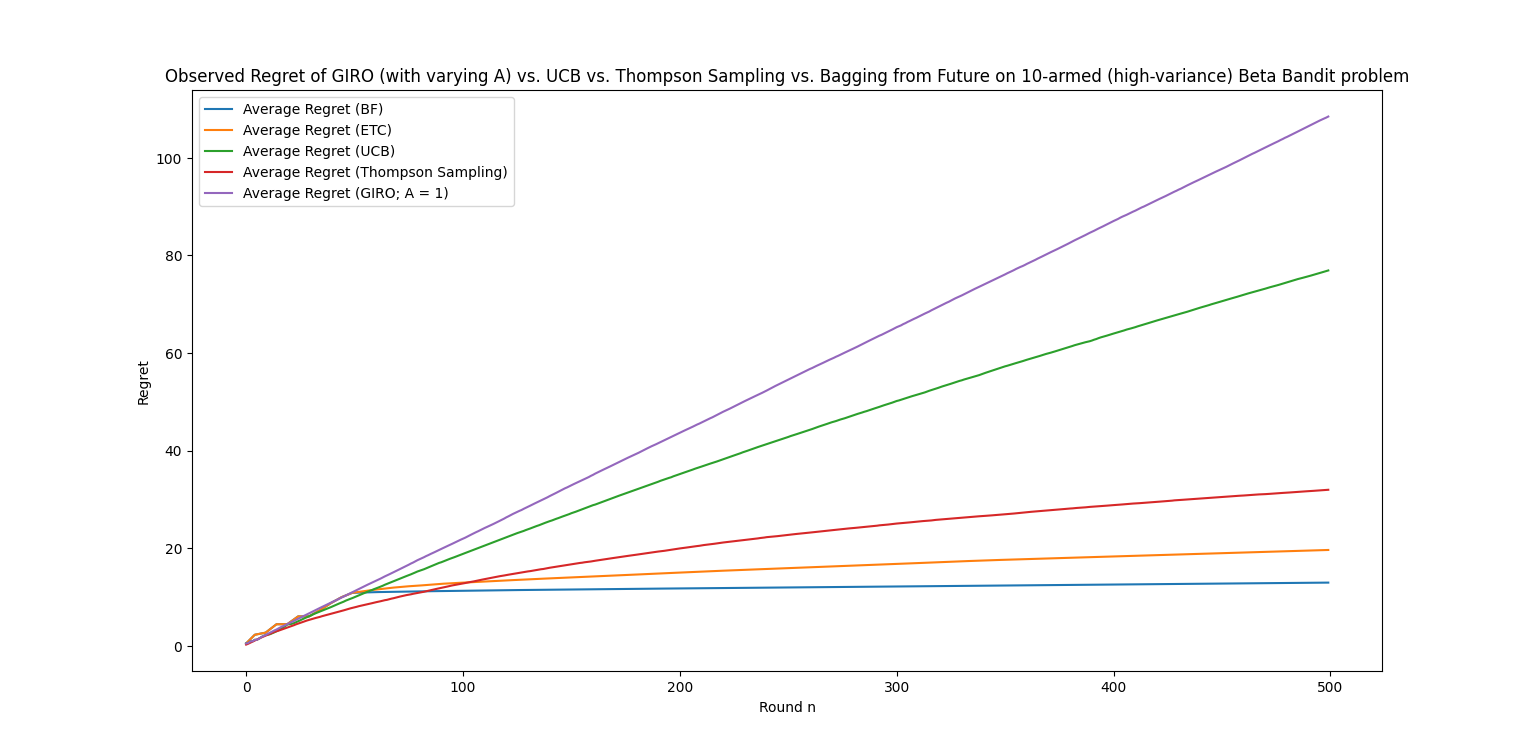
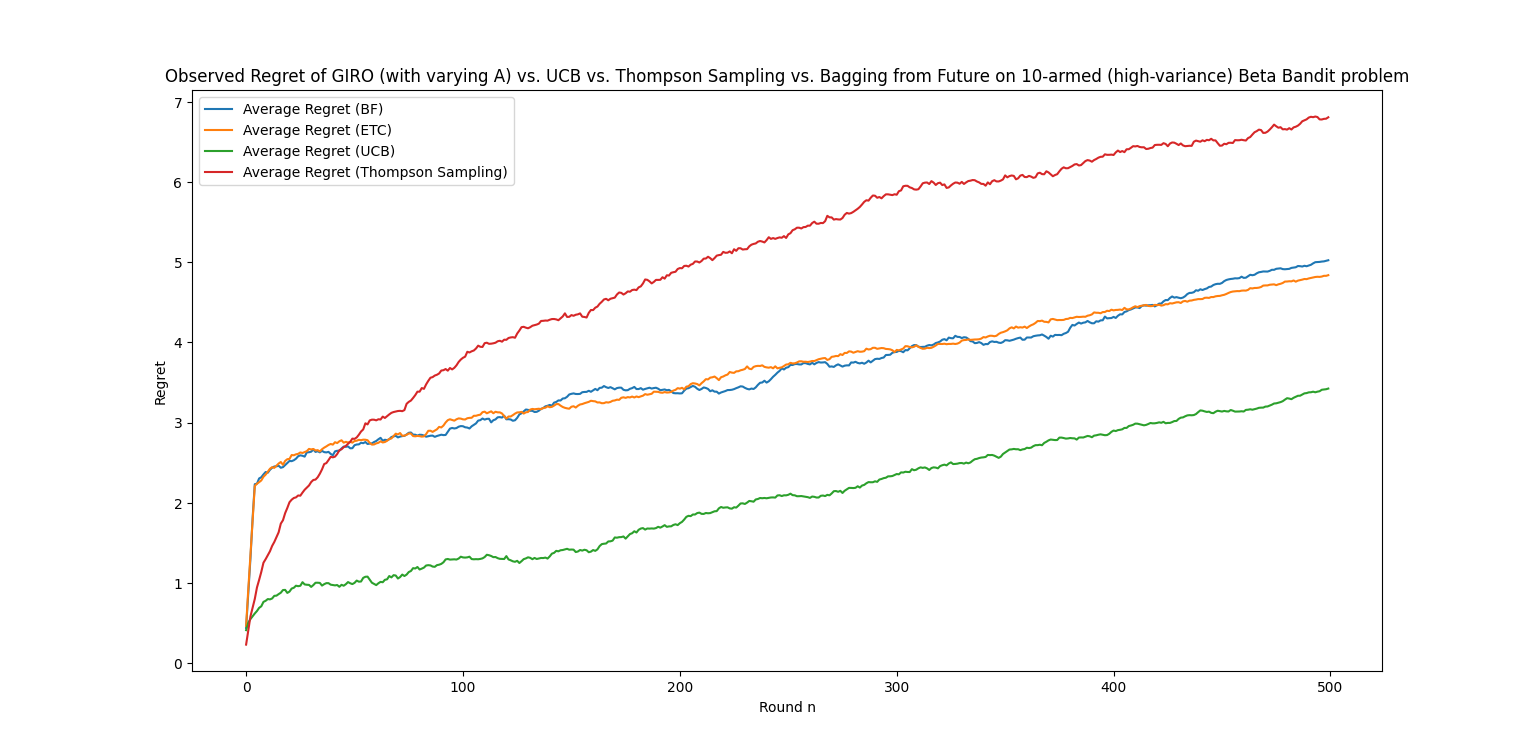
Refactored so that we are simulating a full_information game instead

diff --git a/giro_non_contextual.py b/giro_non_contextual.py
@@ -71,9 +71,9 @@ def TS_arm_estimates_function(history, t, N):
 
     return arm_estimates_current_round
 
-def bagging_from_future_factory(initial_exploration):
+def bagging_from_past_into_future_factory(initial_exploration):
 
-    def bagging_from_future_arm_estimates(history, t, N):
+    def bagging_from_past_into_future(history, t, N):
         num_arms = len(history)
         arm_estimates_current_round = np.zeros(shape=K)
 
@@ -94,7 +94,7 @@ def bagging_from_future_factory(initial_exploration):
 
         return arm_estimates_current_round
     
-    return bagging_from_future_arm_estimates
+    return bagging_from_past_into_future
 
 def explore_then_commit_factory(initial_exploration):
 
@@ -114,24 +114,38 @@ def explore_then_commit_factory(initial_exploration):
     return explore_then_commit
 
 
-def bernoulli_bandit(mu_i):
-    return random.binomial(n=1, p = mu_i)
+def bernoulli_bandit(mu):
+    k = len(mu)
+    rewards = np.zeros(shape = k)
+
+    for i in range(k):
+        rewards[i] = random.binomial(n = 1, p = mu[i])
+
+    return rewards
 
 def beta_bandit_factory(nu, ts=False):
     
-    def beta_bandit(mu_i):
-        r_t = random.beta(nu * mu_i, nu * (1 - mu_i))
-        if (ts == True):
-            return random.binomial(n=1, p = r_t)
+    def beta_bandit(mu):
+        k = len(mu)
+        rewards = np.zeros(shape = k)
+
+        for i in range(k):
+            rewards[i] = random.beta(nu * mu[i], nu * (1 - mu[i]))
+
+        if (ts == False):
+            return rewards
         else:
-            return r_t
+            zero_one_rewards = np.zeros(shape = k)
+            for i in range(K):
+                zero_one_rewards[i] = random.binomial(n = 1, p = rewards[i])
+            return [rewards, zero_one_rewards]
     
     return beta_bandit
 
-# K-armed Bernoulli Bandit 
-# problem tackled using 
-# various algorithms
-def simulate_stochastic_bandit_problem(K, T, generate_reward, compute_arm_estimates, M=100):
+# simulate K-armed stochastic 
+# full information problem 
+# and return accumulated regret
+def simulate_full_information_problem(K, T, generate_rewards, compute_arm_estimates, M=100, ts = False):
 
     # data_structure to keep track of the
     # accumulated regret up to the current round
@@ -145,9 +159,18 @@ def simulate_stochastic_bandit_problem(K, T, generate_reward, compute_arm_estima
         for i in range(K):
             history.append([])
 
-        for i in range(T):
+        ts_history = []
+        for i in range(K):
+            ts_history.append([])
+
+        current_reward = np.zeros(shape = T)
+
+        for t in range(T):
             # estimate arm values 
-            arm_estimates_current_round = compute_arm_estimates(history, i, T)
+            if (ts == True):
+                arm_estimates_current_round = compute_arm_estimates(ts_history, t, T)
+            else:
+                arm_estimates_current_round = compute_arm_estimates(history, t, T)
 
             # get maximum estimate 
             # of the pulled arm
@@ -155,22 +178,28 @@ def simulate_stochastic_bandit_problem(K, T, generate_reward, compute_arm_estima
     
             # reward is generated 
             # by nature
-            r_t = generate_reward(arms_mean[I_t])
+            r_t = generate_rewards(arms_mean)
+            if (ts == True):
+                z_t = r_t[1]
+                r_t = r_t[0]
 
-            # Update the statistics 
-            history[I_t].append(r_t)
+            # Update the statistics
+            for i in range(K): 
+                history[i].append(r_t[i])
 
-            # add to accumulated regret only if 
-            # optimal arm was not chosen this round 
-            if (I_t != optimal_arm_mean_index):
-                sub_optimality_gap = (optimal_arm_mean - arms_mean[I_t]) 
-                if (i == 0):
-                    accumulated_regret[m][i] = sub_optimality_gap
-                else: 
-                    accumulated_regret[m][i] = accumulated_regret[m][i-1] + (sub_optimality_gap)
-            else:
-                if (i != 1):
-                    accumulated_regret[m][i] = accumulated_regret[m][i-1]
+                if (ts == True):
+                    ts_history[i].append(z_t[i])
+            
+            current_reward[t] = r_t[I_t]
+            
+        cumulative_rewards = np.sum(history, axis=1)
+        optimal_arm = np.argmax(cumulative_rewards)
+
+        for t in range(T):
+            if (t == 0):
+                accumulated_regret[m][t] = history[optimal_arm][t] - current_reward[t] 
+            else: 
+                accumulated_regret[m][t] = accumulated_regret[m][t-1] + (history[optimal_arm][t] - current_reward[t])
 
         print('m = {:d}'.format(m))
 
@@ -188,14 +217,16 @@ arms_mean = random.uniform(arms_mean_lower_range, arms_mean_upper_range, size = 
 optimal_arm_mean_index = np.argmax(arms_mean)
 optimal_arm_mean = arms_mean[optimal_arm_mean_index]
 
-""" simulate_stochastic_bandit_problem(K=K, T=T, generate_reward=bernoulli_bandit, compute_arm_estimates=bagging_from_future_arm_estimates, M=1) """
+""" print("Optimal Arm")
+print(np.flip(np.argsort(arms_mean))[0:2]) """
 
-plt.plot(range(T), simulate_stochastic_bandit_problem(K = K, T = T, generate_reward = bernoulli_bandit, compute_arm_estimates = bagging_from_future_factory(5)), label="Average Regret (BF)")
-plt.plot(range(T), simulate_stochastic_bandit_problem(K = K, T = T, generate_reward = bernoulli_bandit, compute_arm_estimates = explore_then_commit_factory(5)), label="Average Regret (ETC)")
-plt.plot(range(T), simulate_stochastic_bandit_problem(K= K, T = T, generate_reward = bernoulli_bandit, compute_arm_estimates = UCB_arm_estimates_function), label="Average Regret (UCB)")
-plt.plot(range(T), simulate_stochastic_bandit_problem(K= K, T = T, generate_reward = bernoulli_bandit, compute_arm_estimates = TS_arm_estimates_function), label="Average Regret (Thompson Sampling)")
-plt.plot(range(T), simulate_stochastic_bandit_problem(K = K, T = T, generate_reward = bernoulli_bandit, compute_arm_estimates = GIRO_arm_estimates_factory_function(1)), label="Average Regret (GIRO; A = 1)")
-plt.plot(range(T), simulate_stochastic_bandit_problem(K = K, T = T, generate_reward = bernoulli_bandit, compute_arm_estimates = GIRO_arm_estimates_factory_function(0.1)), label="Average Regret (GIRO; A = 0.1)")
+
+plt.plot(range(T), simulate_full_information_problem(K = K, T = T, generate_rewards = bernoulli_bandit, compute_arm_estimates = bagging_from_past_into_future_factory(5)), label="Average Regret (BF)")
+plt.plot(range(T), simulate_full_information_problem(K = K, T = T, generate_rewards = bernoulli_bandit, compute_arm_estimates = explore_then_commit_factory(5)), label="Average Regret (ETC)")
+plt.plot(range(T), simulate_full_information_problem(K= K, T = T, generate_rewards = bernoulli_bandit, compute_arm_estimates = UCB_arm_estimates_function), label="Average Regret (UCB)")
+plt.plot(range(T), simulate_full_information_problem(K= K, T = T, generate_rewards = bernoulli_bandit, compute_arm_estimates = TS_arm_estimates_function), label="Average Regret (Thompson Sampling)")
+plt.plot(range(T), simulate_full_information_problem(K = K, T = T, generate_rewards = bernoulli_bandit, compute_arm_estimates = GIRO_arm_estimates_factory_function(1)), label="Average Regret (GIRO; A = 1)")
+plt.plot(range(T), simulate_full_information_problem(K = K, T = T, generate_rewards = bernoulli_bandit, compute_arm_estimates = GIRO_arm_estimates_factory_function(0.1)), label="Average Regret (GIRO; A = 0.1)")
 plt.title("Observed Regret of GIRO (with varying A) vs. UCB vs. Thompson Sampling vs. Bagging from Future on 10-armed Bernoulli Bandit problem")
 
 plt.legend()
@@ -203,11 +234,11 @@ plt.ylabel('Regret')
 plt.xlabel('Round n')
 plt.show()
 
-plt.plot(range(T), simulate_stochastic_bandit_problem(K = K, T = T, generate_reward = beta_bandit_factory(nu=4), compute_arm_estimates = bagging_from_future_factory(5)), label="Average Regret (BF)")
-plt.plot(range(T), simulate_stochastic_bandit_problem(K = K, T = T, generate_reward = bernoulli_bandit, compute_arm_estimates = explore_then_commit_factory(5)), label="Average Regret (ETC)")
-plt.plot(range(T), simulate_stochastic_bandit_problem(K= K, T = T, generate_reward = beta_bandit_factory(nu=4), compute_arm_estimates = UCB_arm_estimates_function), label="Average Regret (UCB)")
-plt.plot(range(T), simulate_stochastic_bandit_problem(K= K, T = T, generate_reward = beta_bandit_factory(nu=4, ts=True), compute_arm_estimates = TS_arm_estimates_function), label="Average Regret (Thompson Sampling)")
-plt.plot(range(T), simulate_stochastic_bandit_problem(K = K, T = T, generate_reward = beta_bandit_factory(nu=4), compute_arm_estimates = GIRO_arm_estimates_factory_function(1)), label="Average Regret (GIRO; A = 1)")
+plt.plot(range(T), simulate_full_information_problem(K = K, T = T, generate_rewards = beta_bandit_factory(nu=4), compute_arm_estimates = bagging_from_past_into_future_factory(5)), label="Average Regret (BF)")
+plt.plot(range(T), simulate_full_information_problem(K = K, T = T, generate_rewards = beta_bandit_factory(nu = 4), compute_arm_estimates = explore_then_commit_factory(5)), label="Average Regret (ETC)")
+plt.plot(range(T), simulate_full_information_problem(K= K, T = T, generate_rewards = beta_bandit_factory(nu=4), compute_arm_estimates = UCB_arm_estimates_function), label="Average Regret (UCB)")
+plt.plot(range(T), simulate_full_information_problem(K= K, T = T, generate_rewards = beta_bandit_factory(nu=4, ts=True), compute_arm_estimates = TS_arm_estimates_function, ts=True), label="Average Regret (Thompson Sampling)")
+#plt.plot(range(T), simulate_full_information_problem(K = K, T = T, generate_rewards = beta_bandit_factory(nu=4), compute_arm_estimates = GIRO_arm_estimates_factory_function(1)), label="Average Regret (GIRO; A = 1)")
 plt.title("Observed Regret of GIRO (with varying A) vs. UCB vs. Thompson Sampling vs. Bagging from Future on 10-armed (high-variance) Beta Bandit problem")
 
 plt.legend()
@@ -215,15 +246,14 @@ plt.ylabel('Regret')
 plt.xlabel('Round n')
 plt.show()
 
-plt.plot(range(T), simulate_stochastic_bandit_problem(K = K, T = T, generate_reward = beta_bandit_factory(nu=16), compute_arm_estimates = bagging_from_future_factory(5)), label="Average Regret (BF)")
-plt.plot(range(T), simulate_stochastic_bandit_problem(K = K, T = T, generate_reward = beta_bandit_factory(nu=16), compute_arm_estimates = explore_then_commit_factory(5)), label="Average Regret (ETC)")
-plt.plot(range(T), simulate_stochastic_bandit_problem(K= K, T = T, generate_reward = beta_bandit_factory(nu=16), compute_arm_estimates = UCB_arm_estimates_function), label="Average Regret (UCB)")
-plt.plot(range(T), simulate_stochastic_bandit_problem(K= K, T = T, generate_reward = beta_bandit_factory(nu=16, ts=True), compute_arm_estimates = TS_arm_estimates_function), label="Average Regret (Thompson Sampling)")
-plt.plot(range(T), simulate_stochastic_bandit_problem(K = K, T = T, generate_reward = beta_bandit_factory(nu=16), compute_arm_estimates = GIRO_arm_estimates_factory_function(1)), label="Average Regret (GIRO; A = 1)")
+plt.plot(range(T), simulate_full_information_problem(K = K, T = T, generate_rewards = beta_bandit_factory(nu=16), compute_arm_estimates = bagging_from_past_into_future_factory(5)), label="Average Regret (BF)")
+plt.plot(range(T), simulate_full_information_problem(K = K, T = T, generate_rewards = beta_bandit_factory(nu=16), compute_arm_estimates = explore_then_commit_factory(5)), label="Average Regret (ETC)")
+plt.plot(range(T), simulate_full_information_problem(K= K, T = T, generate_rewards = beta_bandit_factory(nu=16), compute_arm_estimates = UCB_arm_estimates_function), label="Average Regret (UCB)")
+plt.plot(range(T), simulate_full_information_problem(K= K, T = T, generate_rewards = beta_bandit_factory(nu=16, ts=True), compute_arm_estimates = TS_arm_estimates_function, ts=True), label="Average Regret (Thompson Sampling)")
+#plt.plot(range(T), simulate_full_information_problem(K = K, T = T, generate_rewards = beta_bandit_factory(nu=16), compute_arm_estimates = GIRO_arm_estimates_factory_function(1)), label="Average Regret (GIRO; A = 1)")
 plt.title("Observed Regret of GIRO (with varying A) vs. UCB vs. Thompson Sampling vs. Bagging from Future on 10-armed (low-variance) Beta Bandit problem")
 
 plt.legend()
 plt.ylabel('Regret')
 plt.xlabel('Round n')
 plt.show()
-        
